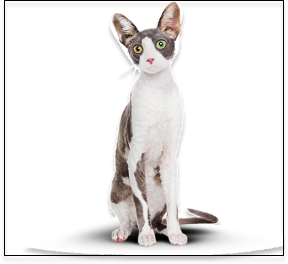
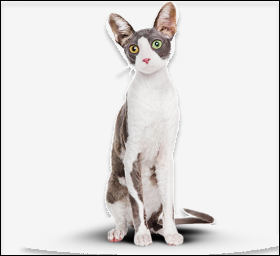
Added new styles for slider cats

diff --git a/source/index.html b/source/index.html
@@ -48,10 +48,10 @@
           <p class="offer__about">Занялся собой? Займись котом!</p>
         </div>
         <picture class="offer__picture">
-          <img class="offer__logo" src="./img/png/can-mobile.png" width="280" height="270" alt="Упаковка корма в стакане
+          <source srcset="./img/png/can-desktop.png" width="552" height="499" media="(min-width: 1440px)">
+          <source srcset="./img/png/can-tablet.png" width="709" height="609" media="(min-width: 768px)">
+          <img src="./img/png/can-mobile.png" width="280" height="270" alt="Упаковка корма в стакане
             Cat Energy Pro с курицей 500 грамм оранжевая.">
-          <source media="(min-width: 768px)" srcset="./img/png/can-tablet.png">
-          <source media="(min-width: 1440px)" srcset="./img/png/can-desktop.png">
         </picture>
         <a class="offer__button button" href="form.html">Подобрать программу</a>
       </div>
@@ -152,14 +152,12 @@
           <figure class="example__slider-item">
             <figcaption class="visually-hidden">Изображение кота одновременно в двух состояниях.</figcaption>
             <picture class="example__slider-image-xl">
+              <source srcset="./img/png/cat-tablet-before1x.png" width="560" height="512" media="(min-width: 768px)">
               <img src="./img/png/cat-mobile-before1x.png" width="280" height="256" alt="Кот Борис до снижения веса.">
-              <source media="(min-width: 768px)" srcset="./img/png/cat-tablet-before1x.png">
-              <source media="(min-width: 1440px)" srcset="./img/png/cat-tablet-before1x.png">
             </picture>
             <picture class="example__slider-image-xs">
+              <source srcset="./img/png/cat-tablet-after1x.png" width="560" height="512" media="(min-width: 768px)">
               <img src="./img/png/cat-mobile-after1x.png" width="280" height="256" alt="Кот Борис после снижения веса.">
-              <source media="(min-width: 768px)" srcset="./img/png/cat-tablet-after1x.png">
-              <source media="(min-width: 1440px)" srcset="./img/png/cat-tablet-after1x.png">
             </picture>
               <div class="example__slider-bar">
                 <button class="example__slider-toggle">

diff --git a/source/sass/blocks/example.scss b/source/sass/blocks/example.scss
@@ -3,14 +3,22 @@
   flex-direction: column;
   align-items: center;
   width: 320px;
+  height: 660px;
   background-color: $color-bg-grey;
-}
+
+    @media (min-width: $tablet-width) {
+      display: flex;
+      flex-direction: column;
+      width: 708px;
+      min-height: 1080px;
+      margin: 0 auto;
+      background-color: $color-default-white;
+    }
+  }
 
 .example__container {
   @media (min-width: $tablet-width) {
-    width: 708px;
-    margin: 0 auto;
-    background-color: $color-bg-white;
+    margin-bottom: 230px;
   }
 
   @media (min-width: $desktop-width) {
@@ -197,25 +205,49 @@
   }
 }
 
+.example__slider {
+  width: 320px;
+  background-color: $color-bg-grey;
+
+  @media (min-width: $tablet-width) {
+    width: 768px;
+    height: 462px;
+  }
+}
+
 .example__slider-item {
-  @include list-reset;
-  position: relative;
+  @include reset;
+  position: absolute;
   width: 280px;
   height: 256px;
+  transform: translate(10px, -20px);
+
+  @media (min-width: $tablet-width) {
+    position: absolute;
+    width: 560px;
+    height: 512px;
+    transform: translate(75px, -175px);
+  }
 }
 
 .example__slider-image-xl {
   position: absolute;
-  width: 280px;
-  height: 256px;
+  background: none;
+  clip: rect(0 140px auto 0);
+
+  @media (min-width: $tablet-width) {
+    clip: rect(0 282px auto 0);
+  }
 }
 
 .example__slider-image-xs {
   position: absolute;
-  height: 256px;
-  width: 280px;
-  background-color: $color-bg-grey;
-  clip: rect(0 auto auto 140px );
+  background: none;
+  clip: rect(0 auto auto 140px);
+
+  @media (min-width: $tablet-width) {
+    clip: rect(0 auto auto 282px);
+  }
 }
 
 .example__slider-bar{
@@ -224,6 +256,11 @@
   width: 4px;
   height: 256px;
   background-color: #666666;
+
+  @media (min-width: $tablet-width) {
+    height: 512px;
+    transform: translateX(280px);
+  }
 }
 
 .example__slider-toggle {
@@ -236,4 +273,8 @@
   background-image: url("../img/svg/thumb.svg");
   background-repeat: no-repeat;
   cursor: pointer;
+
+  @media (min-width: $tablet-width) {
+    transform: translate(-18px, 230px);
+  }
 }

diff --git a/source/sass/blocks/offer.scss b/source/sass/blocks/offer.scss
@@ -10,6 +10,7 @@
   @media (min-width: $tablet-width) {
     width: 708px;
     display: grid;
+    margin-bottom: 526px;
   }
 
   @media (min-width: $desktop-width) {
@@ -34,11 +35,15 @@
     position: absolute;
     width: 320px;
     height: 302px;
-    background-image: url("../img/png/background-mobile.png");
+    background-image: url("../img/jpg/background-mobile.jpg");
     background-repeat: no-repeat;
     object-fit: cover;
     opacity: 0.1;
     content: "";
+
+    @media (min-width: $tablet-width) {
+      display: none;
+    }
   }
 
   @media (min-width: $tablet-width) {
@@ -63,21 +68,18 @@
   transform: translateY(170px);
 
   @media (min-width: $tablet-width) {
-    display: block;
-    width: 708px;
-    height: 609px;
-    background: $color-default-white;
-    transform: translateY(-54px);
+    transform: translate(25px, 407px);
+    background: #ffffff;
   }
 
-  @media (min-width: $desktop-width) {
-    width: 552px;
-    height: 499px;
-    background: $color-bg-white;
-    transform: translate(530px, 127px);
-    z-index: 1;
-    position: absolute;
-  }
+  // @media (min-width: $desktop-width) {
+  //   width: 552px;
+  //   height: 499px;
+  //   background: $color-bg-white;
+  //   transform: translate(530px, 127px);
+  //   z-index: 1;
+  //   position: absolute;
+  // }
 }
 
 .offer__title {
@@ -127,6 +129,7 @@
   @media (min-width: $tablet-width) {
     grid-row: 2 / 3;
     margin-left: 80px;
+    margin-top: 0;
     z-index: 1;
   }
 

diff --git a/source/sass/blocks/features.scss b/source/sass/blocks/features.scss
@@ -93,6 +93,11 @@
   background-repeat: no-repeat;
   transform: translate(6px, 68px);
   content: "";
+
+  @media (min-width: $tablet-width) {
+    background-size: inherit;
+    transform: translate(245px, 0);
+  }
 }
 
 .features__title--img-slim::before {
@@ -129,6 +134,11 @@
   background-repeat: no-repeat;
   transform: translate(-10px, 40px);
   content: "";
+
+  @media (min-width: $tablet-width) {
+    background-size: inherit;
+    transform: translate(150px, 45px);
+  }
 }
 
 .features__title--img-pro::before {
